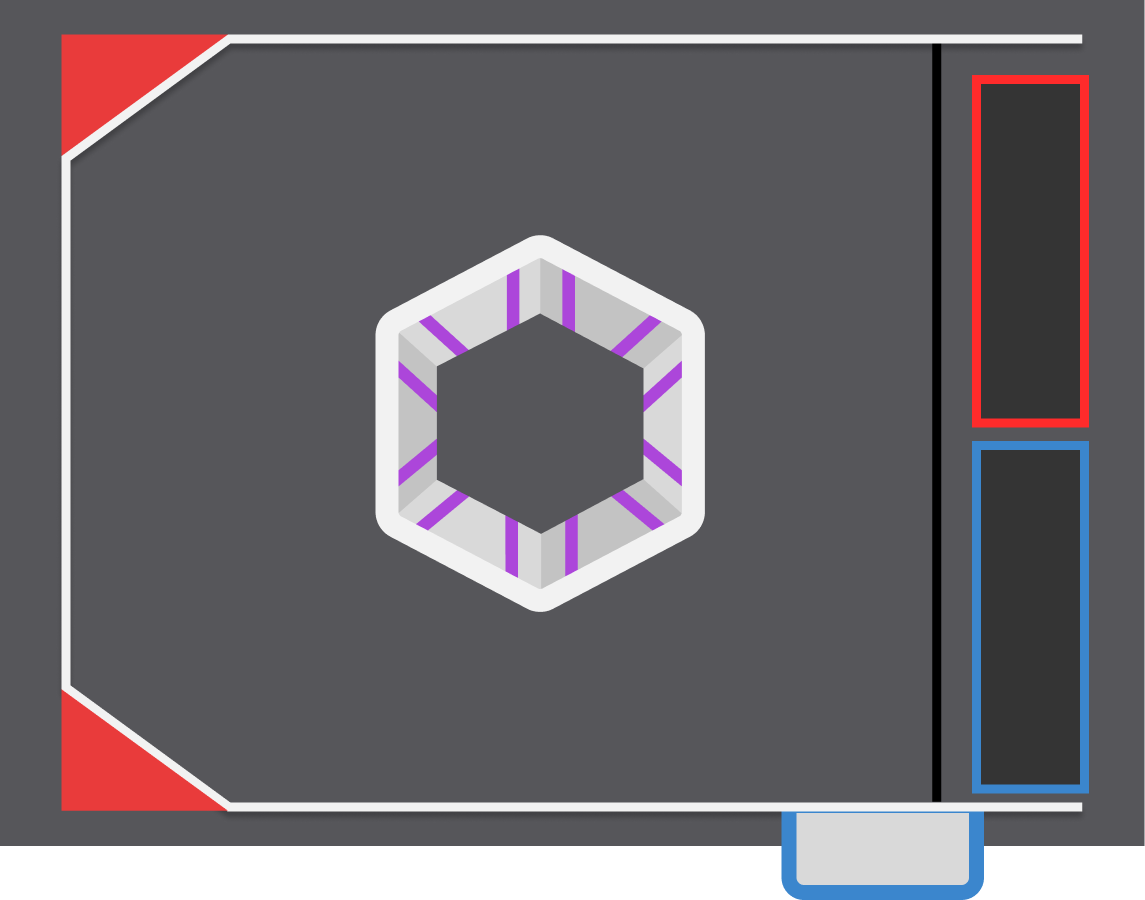
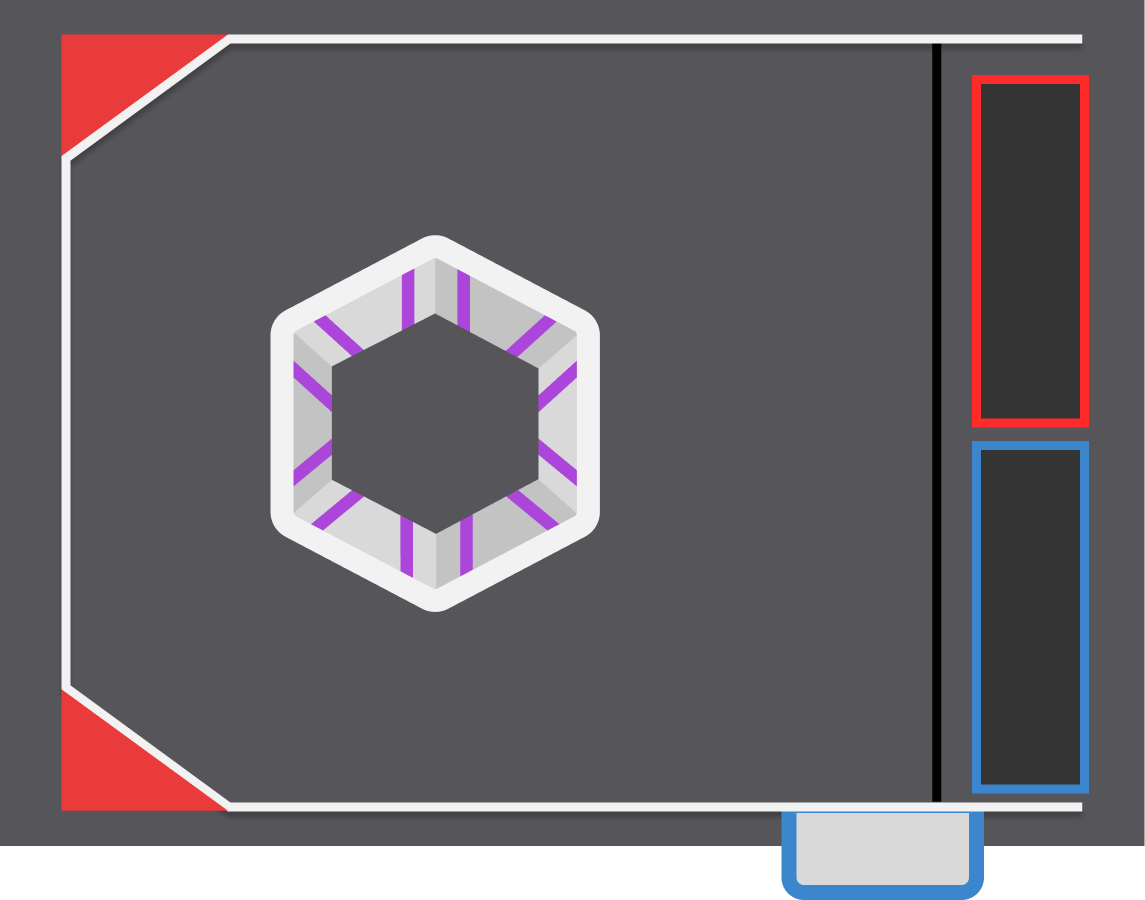
fix robot pos for red alliance

Changed region(s): [[0.214, 0.2489, 0.6419, 0.6844]]

diff --git a/client/static/scripts/data_collection/PiecesMap.js b/client/static/scripts/data_collection/PiecesMap.js
@@ -11,7 +11,7 @@ export default class PiecesMap {
         //Wing Notes
         const dist = canvasSize.x * 0.25
         const startAng = Math.PI/11
-        const ctr = isBlue ? [canvasSize.x * 0.56, canvasSize.y * 0.47] : [canvasSize.x * 0.43, canvasSize.y * 0.4235]
+        const ctr = isBlue ? [canvasSize.x * 0.56, canvasSize.y * 0.47] : [canvasSize.x * 0.333, canvasSize.y * 0.4235]
         for (let i = 0; i < 12; ++i) {
             this.pieces.push(new GamePiece({
                 x: ctr[0] + dist*Math.cos(startAng - Math.PI/6*i),

diff --git a/client/static/scripts/data_collection/AlgaeMap.js b/client/static/scripts/data_collection/AlgaeMap.js
@@ -13,7 +13,7 @@ export default class AlgaeMap {
         //Wing Notes
         const dist = canvasSize.x * 0.1
         const startAng = 0
-        const ctr = isBlue ? [canvasSize.x * 0.575, canvasSize.y * 0.49] : [canvasSize.x * 0.439, canvasSize.y * 0.4235]
+        const ctr = isBlue ? [canvasSize.x * 0.575, canvasSize.y * 0.49] : [canvasSize.x * 0.35, canvasSize.y * 0.4235]
         for (let i = 0; i < 6; ++i) {
             this.algae.push(new Algae({
                 x: ctr[0] + dist*Math.cos(startAng - Math.PI/3*i),

diff --git a/client/static/scripts/data_collection/RobotMap.js b/client/static/scripts/data_collection/RobotMap.js
@@ -20,8 +20,8 @@ export default class RobotMap {
             renderQueue,
             canvasSize,
             pos: {
-                x: isBlue ? canvasSize.x * 0.16 : canvasSize.x * 0.84,
-                y: isBlue ? canvasSize.y * 0.145 : canvasSize.y * 0.145,
+                x: isBlue ? canvasSize.x * 0.16 : canvasSize.x * 0.67,
+                y: isBlue ? canvasSize.y * 0.145 : canvasSize.y * 0.08,
                 r: isBlue ? 0 : 180 //150,
             },
         }))
